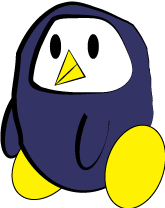
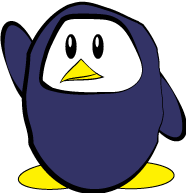
new penguin, neue font

diff --git a/index.html b/index.html
@@ -1,19 +1,28 @@
-<!DOCTYPE HTML PUBLIC "-//W3C//DTD HTML 4.01//EN" "http://www.w3.org/TR/html4/strict.dtd">
+<!DOCTYPE html>
 <html lang='en-US'>
 <head>
 	<title>Hey Podo</title>
-	<meta http-equiv="Content-type" content="text/html;charset=UTF-8">
+	<meta charset="UTF-8">
 	<meta name="description" content="English teacher turned self-taught programmer with a hint of blog.">
-	<link rel="stylesheet" type="text/css" media="screen" href="heypodo.css">
-	<!--	<script src='javascript.js'></script> Include a JavaScript source -->
+	<link rel="stylesheet" media="screen" href="heypodo.css">
+	<!--	<script src="javascript.js"></script> Include a JavaScript source -->
 </head>
 <body>
 	<div id="wrapper">
+		<div id="header">
+			<ul>
+				<li><a href="https://www.facebook.com/profile.php?id=9000104">Facebook</a> |</li>
+				<li><a href="http://www.twitter.com/podopie">Twitter</a> |</li>
+				<li><a href="http://www.linkedin.com/in/edpodojil">Linkedin</a> |</li>
+				<li><a href="#">Portfolio</a></li>
+			</ul>
+		</div>
 		<div id="rightsidebar"><img src="heypodopenguin.png" alt="lol penguin"></div>
 		<div id="maincontent">
-			<p>Hey!</p>
-			<p>I'm Ed Podojil, a new self-taught front end developer who used to teach English at 
-				<a href="http://vhs.nvusd.k12.ca.us/">Vintage High School</a>, and was their percussion director in 
+			<h1>Hey!</h1>
+			<p>I'm Ed Podojil, a new self-taught front end developer who taught English at 
+				<a href="http://vhs.nvusd.k12.ca.us/">Vintage High School</a> 
+				and directed their drumline and percussion in
 				<a href="http://www.youtube.com/watch?v=0nGQtsJbPlk">2010</a> and 
 				<a href="http://www.youtube.com/watch?v=jmOWkk5GGNM">2011</a>. I spent my summer 
 				<a href="http://pine.fm/LearnToProgram/">learning how to program</a> and then 

diff --git a/heypodo.css b/heypodo.css
@@ -3,11 +3,29 @@ body {
 	margin-left: 5em;
 	padding: 0;
 	background: #111142; 
-	font-family: verdana, helvetica, arial, sans-serif;
+	font-family: "Helvetica Neue", Arial, Helvetica, sans-serif;
 }
 
 div {
 	padding: 0;
+}
+#header ul {
+	margin: 0;
+	paddin: 0;
+	float: right;
+}
+#header ul li{
+	display: inline;
+}
+
+h1 {font-size: 181%; font-weight:lighter;}
+#header li {
+	color: white;
+	font-family: "Helvetica Neue", Arial, Helvetica, sans-serif;
+	font-size: .8em;
+	padding: 0;
+	margin: 0;
+	list-style-type:none;
 }
 
 div#wrapper {
@@ -28,9 +46,9 @@ div#maincontent {
 div#rightsidebar {
 	max-width: 100px;
 	float: right;
-	position: relative;
-	padding-left: 1em;
-	margin-top: 300px;
+	position: absolute;
+	left: 860px;
+	top: 400px;
 }
 
 div#footer {
